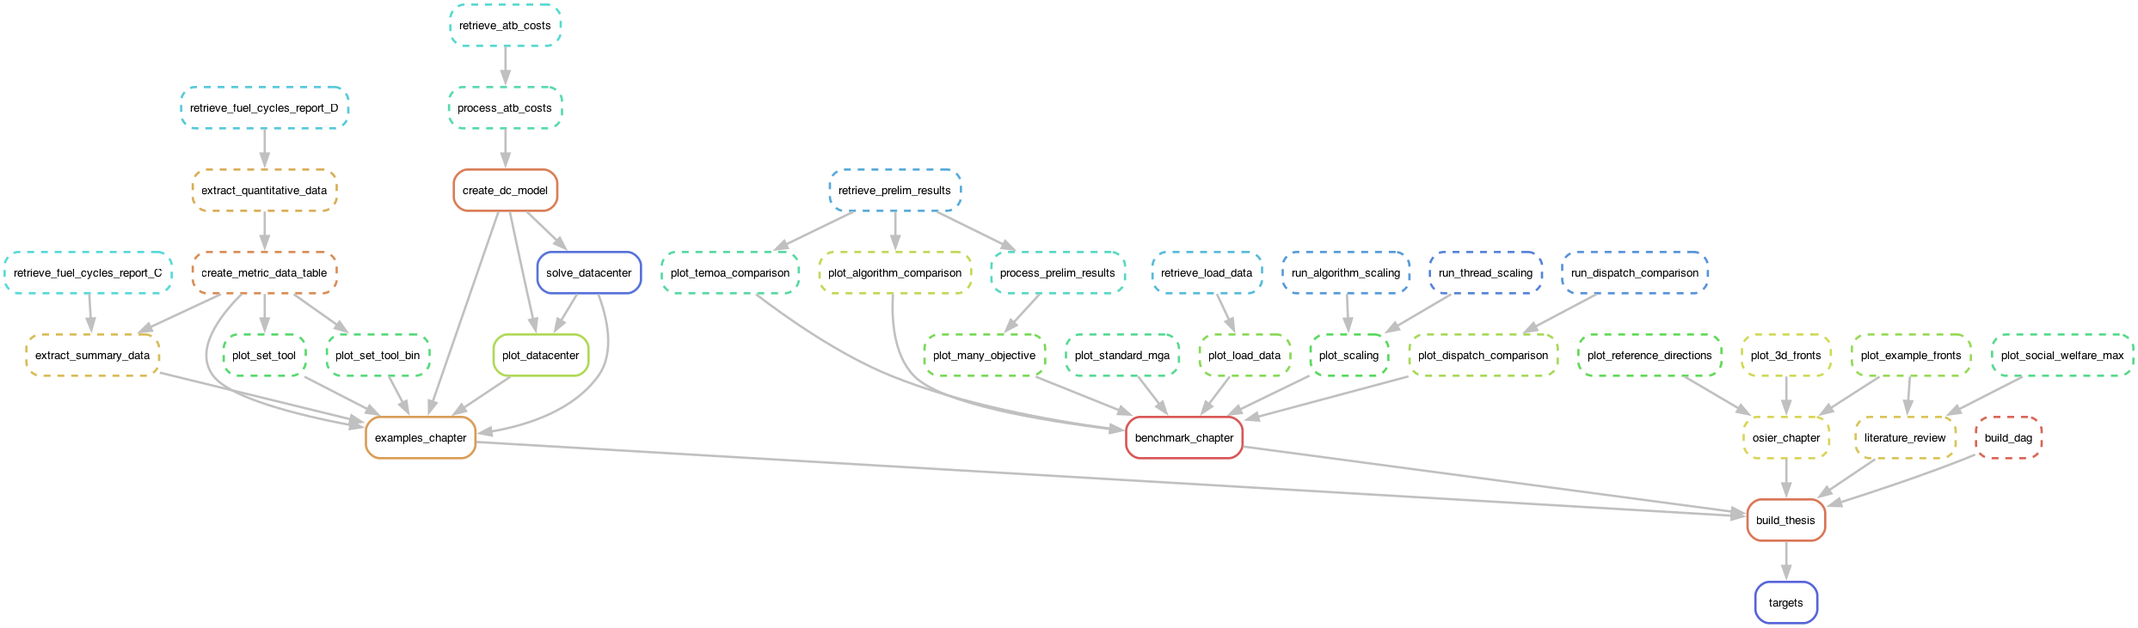
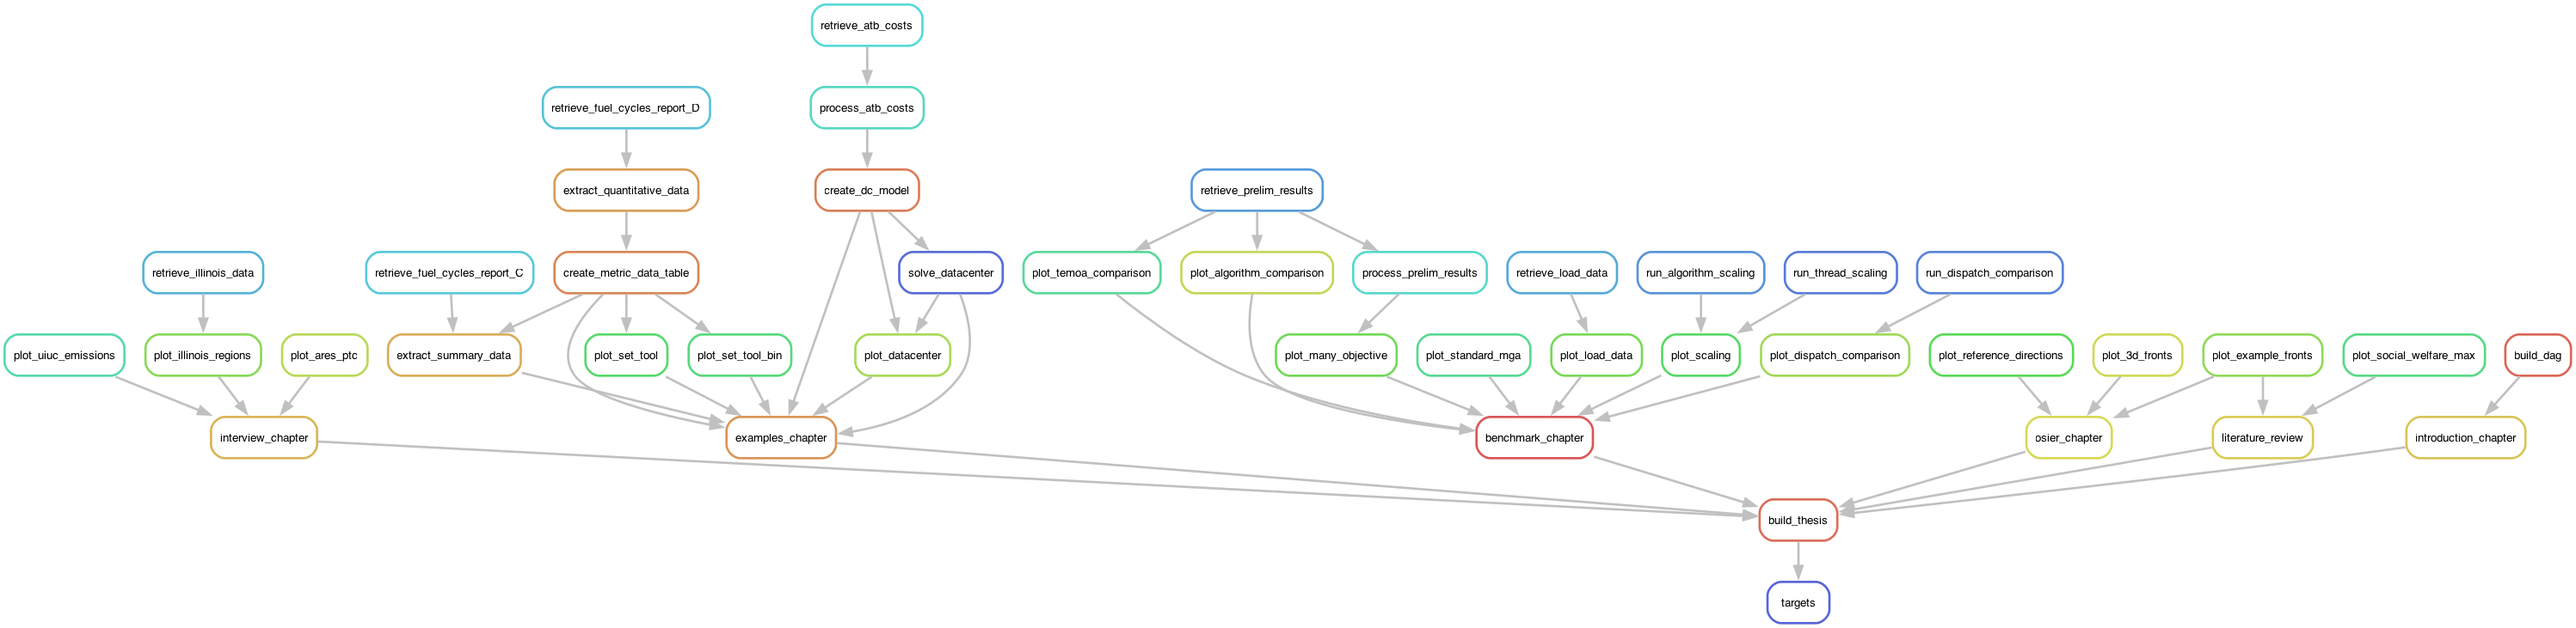
initial commit for introduction

diff --git a/docs/1-introduction/1-introduction.tex b/docs/1-introduction/1-introduction.tex
@@ -87,3 +87,23 @@ as an \ac{esom} by comparing its results against an established representative
 \ref{chapter:proposal} outlines a proposal for the remaining work of this
 thesis.
 
+\section{Motivation}
+
+\textcolor{red}{CO2 emissions}
+
+\textcolor{red}{Emissions by energy source}
+
+\section{Research Objectives}
+
+\section{Reproducing this work}
+Talk about \texttt{snakemake}, show the DAG... 
+
+% \newpage
+% \begin{landscape}
+    \begin{figure}[h!]
+        \centering
+        \includegraphics[width=\columnwidth]{../analysis/dag.png}
+        \caption{The \ac{dag} illustrating the steps to produce this thesis.}
+        \label{fig:dag}
+    \end{figure}
+% \end{landscape}

diff --git a/docs/00-outline.tex b/docs/00-outline.tex
@@ -1,15 +1,6 @@
 \chapter{Introduction}
-
-% \section{Motivation}
-
-% \textcolor{red}{CO2 emissions}
-
-% \textcolor{red}{Emissions by energy source}
-
-% \section{Research Objectives}
-
-% \section{Reproducing this work}
-% Talk about \texttt{snakemake}, show the DAG... 
+\label{chapter:introduction}
+\input{1-introduction/1-introduction.tex}
 
 \chapter{Literature Review}
 \label{chapter:lit-review}
@@ -29,6 +20,6 @@
 
 \chapter{Energy modeling, planning, and justice}
 \label{chapter:communities}
-\input{7-interviews/70-outline}
+% \input{7-interviews/70-outline}
 
 \chapter{Conclusions}

diff --git a/docs/2025-dotson-thesis.tex b/docs/2025-dotson-thesis.tex
@@ -8,6 +8,7 @@
 \usepackage{amsmath,amsthm,amssymb}
 \usepackage{minted}
 \usepackage{relsize}
+\usepackage{pdflscape}
 \usepackage[normalem]{ulem}
 \usepackage{pifont}
 \newcommand{\cmark}{\ding{51}}%

diff --git a/docs/acros.tex b/docs/acros.tex
@@ -117,5 +117,6 @@
 \acro{irp}[IRP]{integrated resource plan}
 \acro{ptc}[PTC]{price-to-compare}
 \acro{abm}[ABM]{agent-based model}
+\acro{dag}[DAG][directed acyclic graph]
 
 
